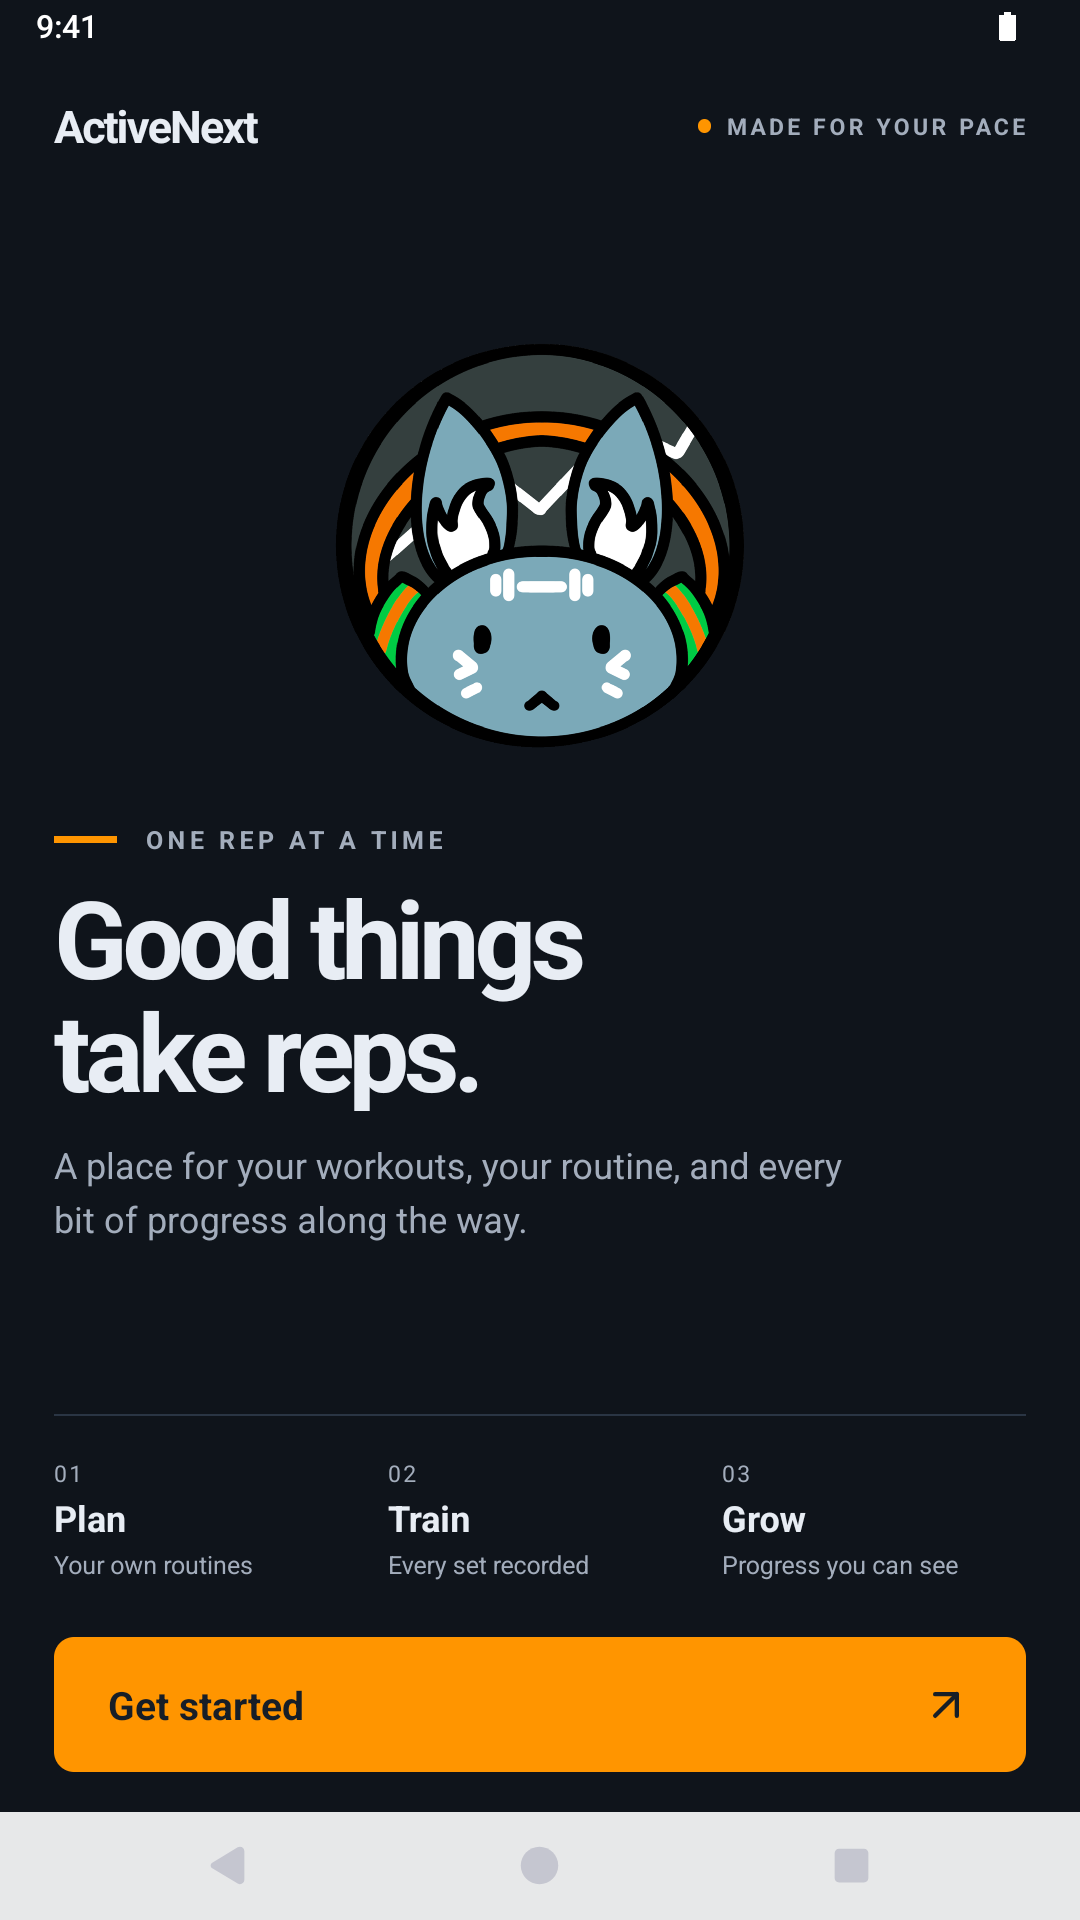
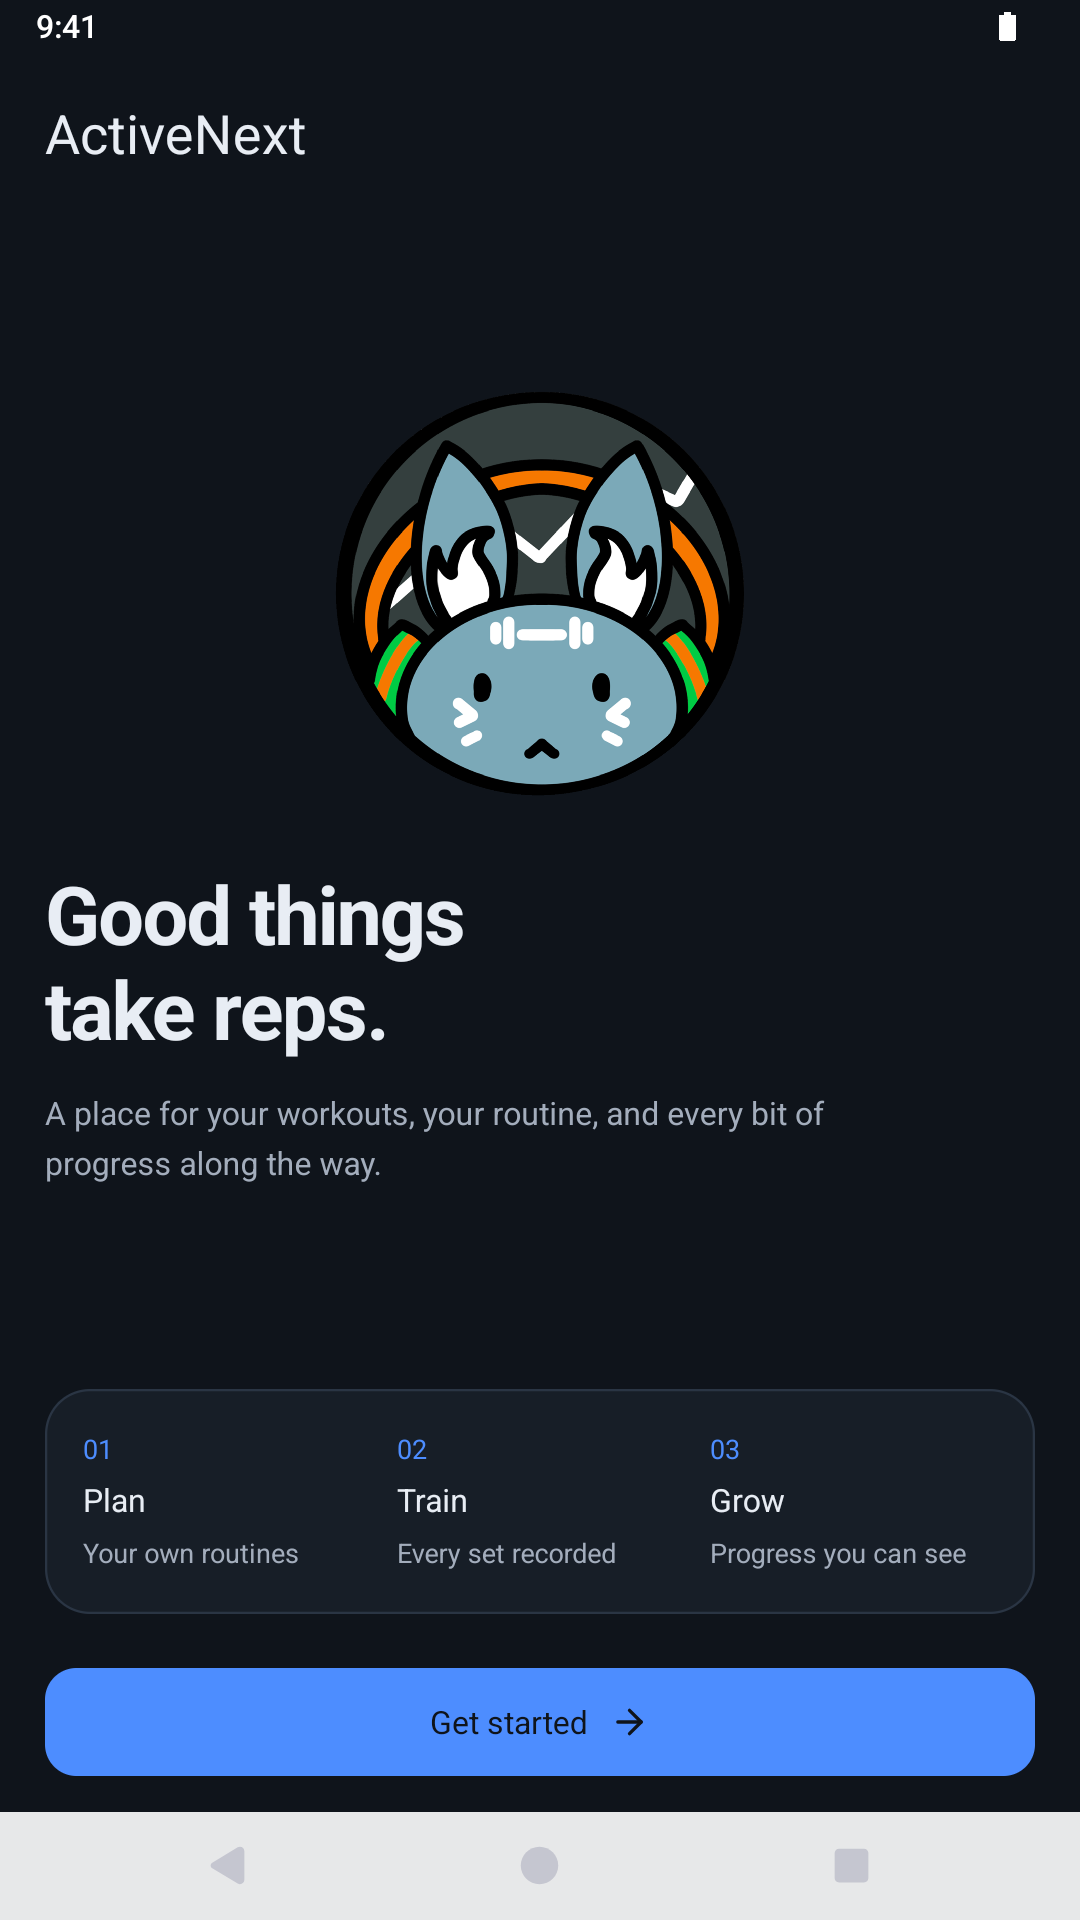
Align welcome screen with the app blue theme and design tokens

diff --git a/app/welcome/index.tsx b/app/welcome/index.tsx
@@ -1,4 +1,4 @@
-import { ArrowUpRight } from '@tamagui/lucide-icons'
+import { ArrowRight } from '@tamagui/lucide-icons'
 import { useRouter } from 'expo-router'
 import { Platform, ScrollView } from 'react-native'
 import { Button, H1, Image, Text, XStack, YStack } from 'tamagui'
@@ -25,23 +25,14 @@ export default function WelcomeHome() {
         width="100%"
         maxW={560}
         self="center"
-        px="$5"
-        pt="$4"
-        pb="$4"
-        gap="$5"
-        $sm={{ px: '$7', pt: '$6', pb: '$6' }}
+        px="$page"
+        pt="$page"
+        pb="$page"
+        gap="$section"
       >
-        <XStack items="center" justify="space-between" gap="$3" flexWrap="wrap">
-          <Text fontSize={20} fontWeight="800" letterSpacing={-0.8} color="$color">
-            ActiveNext
-          </Text>
-          <XStack items="center" gap="$2">
-            <YStack width={6} height={6} rounded={3} bg="#FF9500" />
-            <Text fontSize={10} fontWeight="700" letterSpacing={1.5} color="$colorSubtle">
-              MADE FOR YOUR PACE
-            </Text>
-          </XStack>
-        </XStack>
+        <Text fontSize="$screenTitle" lineHeight="$screenTitle" fontWeight="600" color="$color">
+          ActiveNext
+        </Text>
 
         <YStack flex={1} justify="center" gap="$5" py="$3">
           <YStack items="center" py="$2">
@@ -56,38 +47,32 @@ export default function WelcomeHome() {
           </YStack>
 
           <YStack gap="$3">
-            <XStack items="center" gap="$3">
-              <YStack width={28} height={3} bg="#FF9500" />
-              <Text fontSize={11} fontWeight="700" letterSpacing={2} color="$colorSubtle">
-                ONE REP AT A TIME
-              </Text>
-            </XStack>
-            <H1
-              fontSize={48}
-              lineHeight={50}
-              fontWeight="900"
-              letterSpacing={-2.5}
-              color="$color"
-              $sm={{ fontSize: 60, lineHeight: 62 }}
-            >
+            <H1 fontSize={36} lineHeight={42} fontWeight="700" letterSpacing={-0.8} color="$color">
               Good things{'\n'}take reps.
             </H1>
-            <Text fontSize={16} lineHeight={24} color="$colorSubtle" maxW={350}>
+            <Text fontSize="$body" lineHeight="$body" color="$colorSubtle" maxW={350}>
               A place for your workouts, your routine, and every bit of progress along the way.
             </Text>
           </YStack>
         </YStack>
 
-        <XStack borderTopWidth={1} borderColor="$borderColor" pt="$4" gap="$3">
+        <XStack
+          bg="$surface"
+          borderWidth={1}
+          borderColor="$borderColor"
+          rounded="$card"
+          p="$card"
+          gap="$field"
+        >
           {trainingSteps.map((step) => (
             <YStack key={step.number} flex={1} gap="$1">
-              <Text fontSize={10} color="$colorSubtle" letterSpacing={1}>
+              <Text fontSize="$caption" lineHeight="$caption" color="$primary">
                 {step.number}
               </Text>
-              <Text fontSize={16} fontWeight="700" color="$color">
+              <Text fontSize="$body" lineHeight="$body" fontWeight="600" color="$color">
                 {step.title}
               </Text>
-              <Text fontSize={11} lineHeight={16} color="$colorSubtle">
+              <Text fontSize="$caption" lineHeight="$caption" color="$colorSubtle">
                 {step.detail}
               </Text>
             </YStack>
@@ -96,20 +81,19 @@ export default function WelcomeHome() {
 
         <YStack gap="$2">
           <Button
-            height={60}
-            bg="#FF9500"
-            rounded="$4"
+            minH="$action"
+            bg="$primary"
+            rounded="$button"
             borderWidth={0}
             px="$5"
-            justify="space-between"
             onPress={() => router.push('/welcome/register')}
-            hoverStyle={{ bg: '#FFAA33' }}
-            pressStyle={{ bg: '#E68600' }}
+            hoverStyle={{ bg: '$primaryHover' }}
+            pressStyle={{ bg: '$primaryPress' }}
             focusVisibleStyle={{ outlineColor: '$color', outlineWidth: 2, outlineOffset: 4 }}
             accessibilityLabel="Get started"
-            iconAfter={<ArrowUpRight size={23} color="#171E27" />}
+            iconAfter={<ArrowRight size="$icon" color="$onPrimary" />}
           >
-            <Text fontSize={17} fontWeight="700" color="#171E27">
+            <Text fontSize="$body" fontWeight="600" color="$onPrimary">
               Get started
             </Text>
           </Button>
